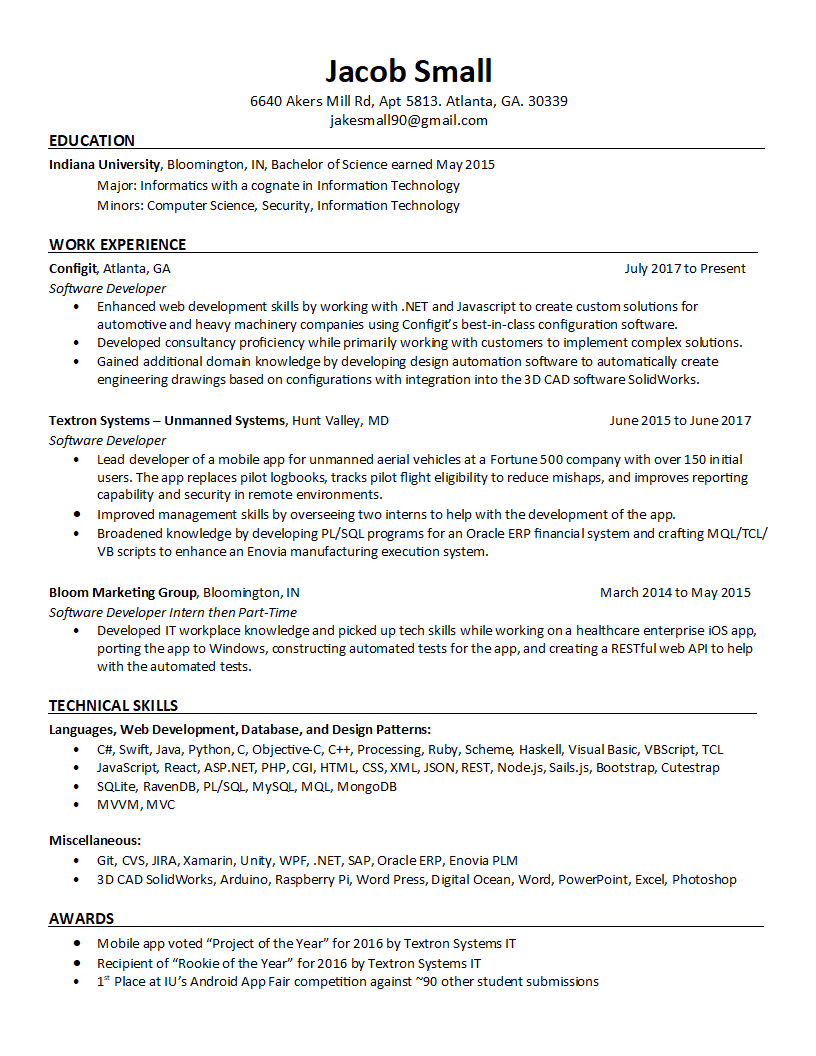
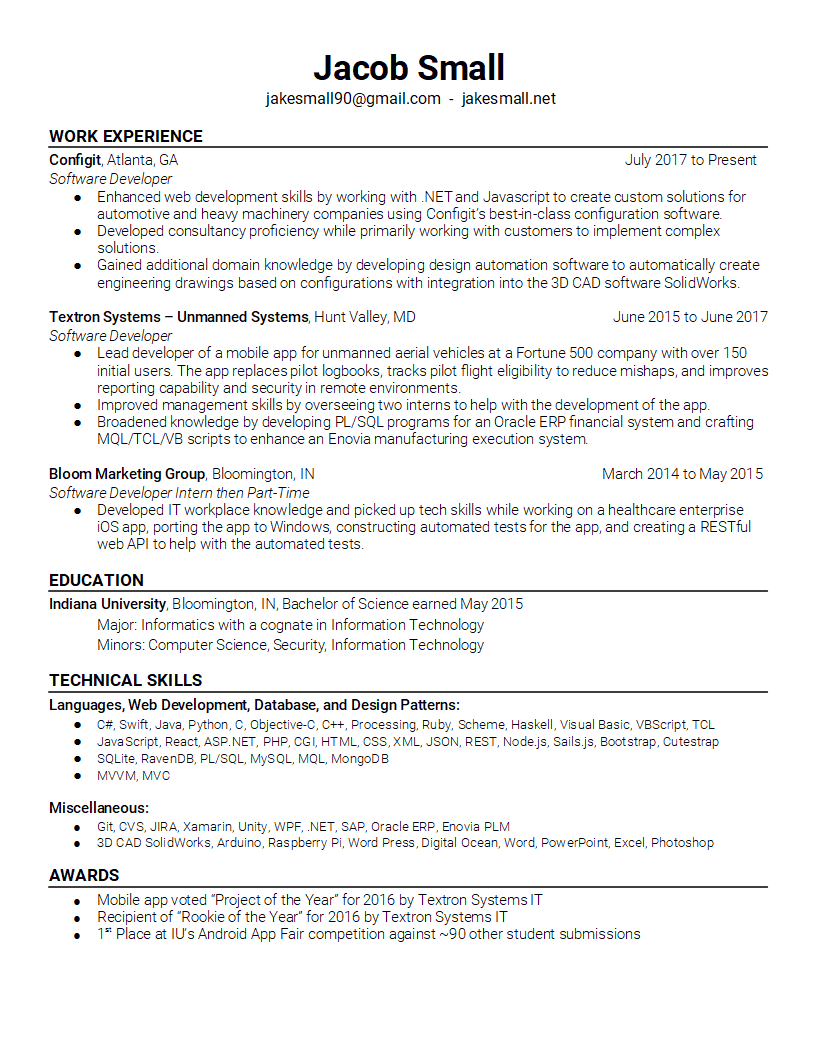
improved resume page

Changed region(s): [[0.0613, 0.0312, 0.9498, 0.9375]]

diff --git a/resume.md b/resume.md
@@ -3,4 +3,15 @@ layout: page
 title: Resume
 permalink: /resume/
 ---
+<p style="text-align:left;">
+    <!-- [Back to Home](/) -->
+    <a href="/">Back Home</a>
+    <span style="float:right;">
+        <!-- [Download Resume as PDF](/assets/pdf/Resume_Jacob_Small_2019.pdf) -->
+        <a href="/assets/pdf/Resume_Jacob_Small_2019.pdf">Download Resume</a>
+    </span>
+</p>
+
+
+
 ![](/assets/img/Resume_Jacob_Small_2019.png)
